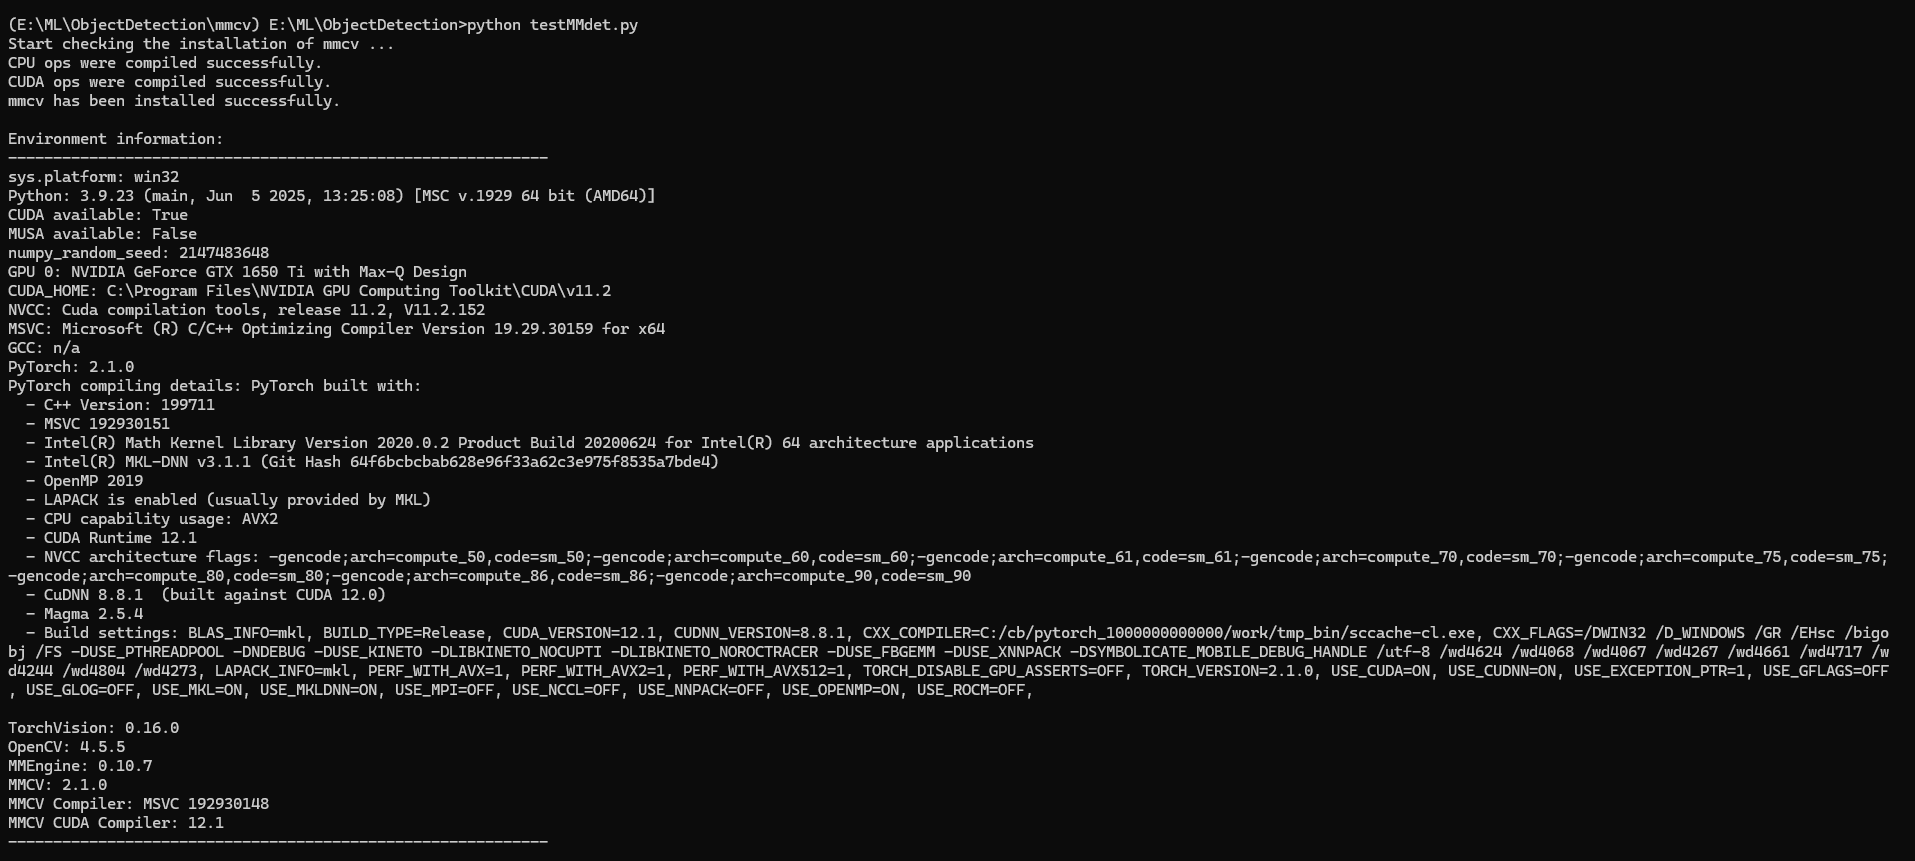
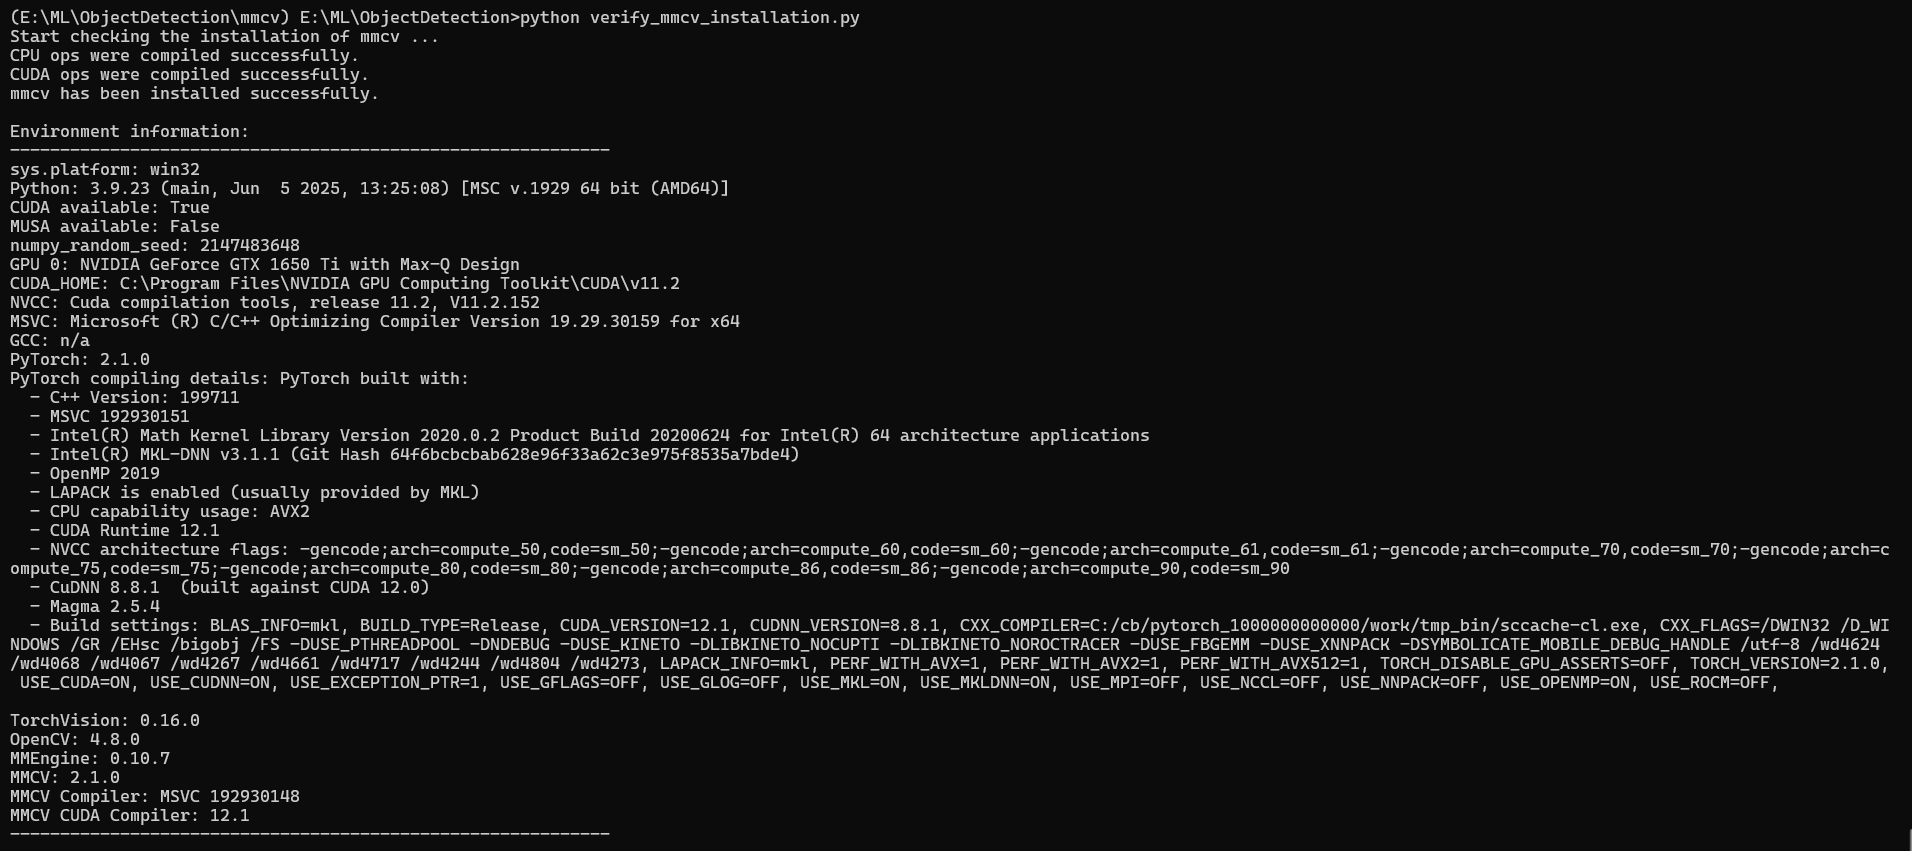
update readme

Changed region(s): [[0.0, 0.1528, 0.9874, 1.0], [0.0, 0.0, 0.4629, 0.1222]]

diff --git a/Readme.md b/Readme.md
@@ -1,79 +1,54 @@
-# Installation Guide for PyTorch and MMDetection Setup
+# Object Detection with MMDetection
 
- **check the latest mmcv version >> find matching Pytorch version >> find matching cuda version**.
+This project provides a streamlined workflow for running state-of-the-art object detection using the MMDetection toolbox from OpenMMLab. It includes scripts for performing inference on both images and videos, as well as utilities for managing model weights and verifying your environment setup.
 
-first go to the mmcv releases page and see the needed pytorch version for the latest released mmcv version
+**Key Features:**
+- **Easy Inference:** Run object detection on images and videos with a single command.
+- **Automatic Model Management:** Download and manage compatible model weights automatically.
+- **Environment Validation:** Tools to check your MMCV, PyTorch, and CUDA installation for compatibility.
+- **Flexible Configuration:** Easily switch between different detection models and thresholds.
 
-below is the screenshot from the release page.
-
-![finding the correct pytorch version for the mmcv version](/mmcv_pytorch_version.png "Matching mmcv version and pytorch version")
-
-Now we know for the latest mmcv 2.10 we need pytorch 2.1.0.
-
-lets go to the pytorch websiste and see what are the matching cuda version availble for pytorch 2.1.0.
-![finding the correct pytorch version and cuda](/pytorch_cuda_1.png "Matching pytorch version and cuda")
-currently pytorch 2.8.0 is available that are compatible with cuda 12.6, 12.8 and 12.9 versions.  
-
-But for pytorch 2.8.0 version there are no any matching mmcv pre-built packages. Of course you are free to built from source. Still why go through that trouble?
-
-Therefore we will go to the link **"install previous versions of Pytorch".**
-
-After scrollling down a little we find this:
-
-![finding the correct pytorch version and cuda](/pytorch_cuda_2.png "Matching pytorch version and cuda")
-
-For **Pytorch 2.1.0** there are two matching cuda versions as **cuda 11.8** and **cuda 12.1**
-
-### Now for we found that for **mmcv v2.1.0** the matching **Pytorch v2.1.0** and for Pytorch the matching cuda versions are **cuda 11.8** or **cuda 12.1**. This is the most crucial step for setting up mmdetection locally.
-
-### ----------------------------Optional ----------------------------
-You can cross check if there are prebuilt mmcv versions for specific Pytorch and cuda versions.
-
-For example:
-
-if you go to the following link. you can see the existing mmcv versions for cuda 12.1 and 2.1.0.
-
-[https://download.openmmlab.com/mmcv/dist/cu121/torch2.1.0/index.html](https://download.openmmlab.com/mmcv/dist/cu121/torch2.1.0/index.html)
-
-use the following pattern in the url to see the if there are mmcv versions available for the specific {cuda version} and {pytorch version}
-
-```
-https://download.openmmlab.com/mmcv/dist/cu{cuda version}/torch{pytorch version}/index.html
-```
-It's better to always first **check the latest mmcv version >> find matching Pytorch version >> find matching cuda version**. It will make your life easy. Trust me I gave gone the other way round and spend more time working on fixing compatability issues rather than the actual project :(.
-
-### ------------------------------------------------------------------
+Whether you're a researcher, developer, or hobbyist, this project helps you quickly get started with powerful object detection models, ensuring you have the right dependencies and configurations for a smooth experience.
 
 
 
-
-## Step 1: Install PyTorch 1.11.0 with CUDA 11.3
+# Installation Guide for MMDetection Setup
+#### Note: I have included exact version of almost all the packages installed. They are necessary to maintain comapatability. In case if you are installing newer versions make sure they are compatible with each other.
+## Step 1: Create virtual environment
 ```bash
-pip install torch==1.11.0+cu113 torchvision==0.12.0+cu113 torchaudio==0.11.0 --extra-index-url https://download.pytorch.org/whl/cu113
+conda create --prefix ./mmcv
+```
+```bash
+conda activate ./mmcv
 ```
 
+## Step 2: Install PyTorch 2.1.0 with CUDA 12.1
+```bash
 conda install pytorch==2.1.0 torchvision==0.16.0 torchaudio==2.1.0 pytorch-cuda=12.1 -c pytorch -c nvidia
-
-## Step 2: Install MMCV-Full 1.7.2 (matching PyTorch 1.11.0 + CUDA 11.3)
-```bash
-pip install mmcv-full==1.7.2 -f https://download.openmmlab.com/mmcv/dist/cu113/torch1.11.0/index.html
 ```
+
+
+## Step 2: Install MMCV and MMEngine libraries
+```bash
 pip install -U openmim
-mim install mmcv==2.1.0
-mim install mmengine==0.10.7
-
-## Step 3: Install MMDetection 2.28.2
-```bash
-pip install mmdet==2.28.2
 ```
+```bash
+mim install mmcv==2.1.0
+```
+```bash
+mim install mmengine==0.10.7
+```
+
+
+## Step 3: Install MMDetection library
+```bash
 mim install mmdet==3.3.0
+```
 
 ## Step 4: Downgrade NumPy to 1.24.4 (required for PyTorch/MMCV compatibility)
 ```bash
 pip install numpy==1.24.4
 ```
-pip install numpy==1.24.4
-
 ## Step 5: Install TensorBoard
 ```bash
 pip install tensorboard
@@ -81,13 +56,24 @@ pip install tensorboard
 
 ## Step 6: Install a compatible OpenCV version
 ```bash
-pip install opencv-python==4.5.5.64
-```
 pip install opencv-python==4.12.0.88
+```
+
 
 ## Step 7: Pin protobuf to avoid runtime errors
 ```bash
 pip install protobuf==3.20.3
 ```
-below is a successful install
+
+## Step 8: Clone the mmdetection repository
+```bash
+git clone https://github.com/open-mmlab/mmdetection.git
+```
+
+## Step 9: Verify successfull installation
+This repo contains a file called **verify_mmcv_installation.py**. Run it.
+```bash
+python verify_mmcv_installation.py
+```
+Screenshot of a successful install is below:
 ![finding the correct pytorch version and cuda](/install_success.png "Matching pytorch version and cuda")
